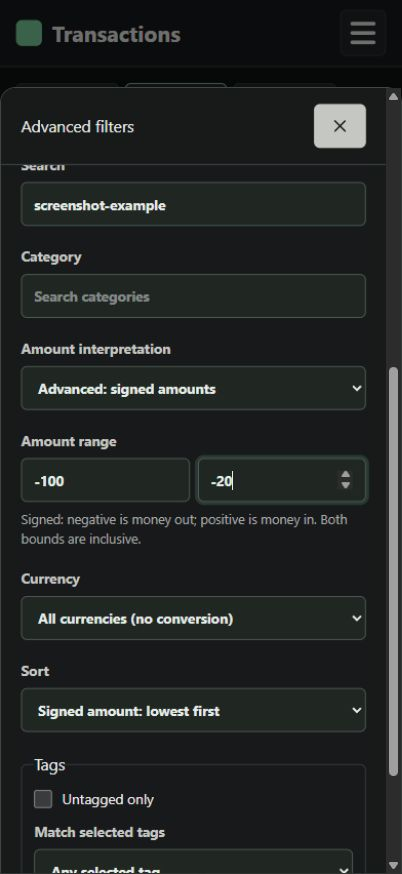
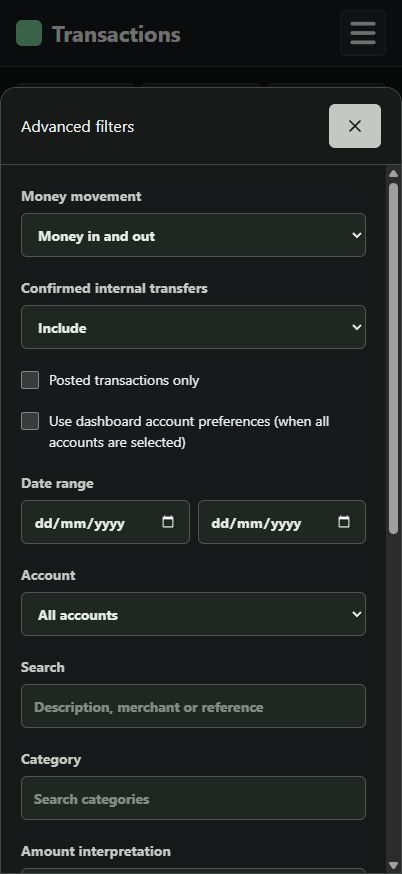
Keep mobile transaction results visible and replace review screenshots

diff --git a/src/Finyte.Web/app/transactions/TransactionQuickFilters.tsx b/src/Finyte.Web/app/transactions/TransactionQuickFilters.tsx
@@ -7,13 +7,15 @@ export function TransactionQuickFilters({ filters, onApply }: { filters: Transac
   const [error, setError] = useState('')
   const change = (values: Partial<TransactionFilters>) => { setDraft(x => ({ ...x, ...values })); setError('') }
   const noun = draft.direction === 'debit' ? 'payments' : draft.direction === 'credit' ? 'receipts' : 'amounts'
-  return <form className="panel transaction-quick-filters" onSubmit={x => {
-    x.preventDefault()
-    if (draft.minAmount && draft.maxAmount && Number(draft.minAmount) > Number(draft.maxAmount)) { setError('Minimum must be less than or equal to maximum.'); return }
-    onApply({ ...draft, search: draft.search.trim() })
-  }}>
-    <label className="filter-field quick-search"><span>Search transactions</span><input type="search" maxLength={200} placeholder="Merchant, description or reference" value={draft.search} onChange={x => change({ search: x.target.value })} /></label>
-    <label className="filter-field"><span>Money movement</span><select value={draft.direction} onChange={x => change({ direction: x.target.value })}><option value="all">Money in and out</option><option value="debit">Money out</option><option value="credit">Money in</option></select></label>
+  return <section className="panel transaction-quick-filters" aria-label="Transaction search">
+    <form className="quick-search-row" onSubmit={x => { x.preventDefault(); onApply({ ...filters, search: draft.search.trim() }) }}><label className="filter-field"><span className="visually-hidden">Search transactions</span><input type="search" maxLength={200} placeholder="Search transactions" title="Search merchant, description or reference" value={draft.search} onChange={x => change({ search: x.target.value })} /></label><button type="submit">Search</button></form>
+    <details className="quick-filter-options"><summary>Amount &amp; sort</summary><form className="quick-filter-fields" onSubmit={x => {
+      x.preventDefault()
+      if (draft.minAmount && draft.maxAmount && Number(draft.minAmount) > Number(draft.maxAmount)) { setError('Minimum must be less than or equal to maximum.'); return }
+      onApply({ ...draft, search: draft.search.trim() })
+      x.currentTarget.closest('details')?.removeAttribute('open')
+    }}>
+    <label className="filter-field"><span>Money movement</span><select value={draft.direction} onChange={x => change({ direction: x.target.value })}><option value="all">In &amp; out</option><option value="debit">Money out</option><option value="credit">Money in</option></select></label>
 
     {draft.amountMode === 'signed' ? <div className="quick-search"><p>Signed amount filters are active in Advanced.</p><button className="secondary-button" type="button" onClick={() => change({ amountMode: 'absolute', minAmount: '', maxAmount: '' })}>Use positive amounts</button></div> : <>
       <label className="filter-field"><span>Amount match</span><select value={exact ? 'exact' : 'range'} onChange={x => { setExact(x.target.value === 'exact'); change({ minAmount: '', maxAmount: '' }) }}><option value="range">Range</option><option value="exact">Exact amount</option></select></label>
@@ -22,9 +24,10 @@ export function TransactionQuickFilters({ filters, onApply }: { filters: Transac
       <small className="quick-search">Positive amounts; inclusive bounds or exact cents. {draft.direction === 'all' ? 'Both directions, including zero.' : draft.direction === 'debit' ? 'Money out only.' : 'Money in only.'} Currencies are not converted.</small>
     </>}
     <label className="filter-field quick-search"><span>Sort transactions</span><select value={draft.sort} onChange={x => change({ sort: x.target.value })}><option value="-date">Newest first</option><option value="date">Oldest first</option><option value="-magnitude">Largest {noun} first</option><option value="magnitude">Smallest {noun} first</option><option value="description">Description: A to Z</option><option value="-description">Description: Z to A</option>{['amount', '-amount'].includes(draft.sort) && <option value={draft.sort}>Signed amount: {draft.sort === 'amount' ? 'lowest' : 'highest'} first (Advanced)</option>}</select></label>
-    <div className="quick-actions"><button type="submit">Search / apply</button><button type="button" className="secondary-button" disabled={!draft.search && !filters.search} onClick={() => { change({ search: '' }); onApply({ ...filters, search: '' }) }}>Clear search</button></div>
+    <div className="quick-actions"><button type="submit">Apply filters</button></div>
     {error && <p role="alert">{error}</p>}
-  </form>
+    </form></details>
+  </section>
 }
 
 export function TransactionFilterChips({ filters, accounts, tags, onApply }: { filters: TransactionFilters; accounts: { id: string; name: string }[]; tags: { id: string; name: string }[]; onApply: (filters: TransactionFilters) => void }) {

diff --git a/src/Finyte.Web/tests/mobile-review.tsx b/src/Finyte.Web/tests/mobile-review.tsx
@@ -1,0 +1,46 @@
+// Local Vite-only visual fixture: real components, synthetic data, no API/database access.
+import { useState } from 'react'
+import { createRoot } from 'react-dom/client'
+import { TransactionQuickFilters, TransactionFilterChips } from '../app/transactions/TransactionQuickFilters'
+import { TransactionFilterForm } from '../app/transactions/TransactionFilters'
+import { TransactionCardList } from '../app/transactions/TransactionCardList'
+import { Drawer } from '../app/shared/Drawer'
+import { Menu, Tags, X } from '../app/shared/Icons'
+import { defaultTransactionFilters, type TransactionFilters } from '../app/transactions/transactionSearch'
+import type { Transaction } from '../app/transactions/types'
+import '../app/index.css'
+import '../app/App.css'
+import '../app/shared/ux.css'
+
+const accounts = [{ id: 'sample', name: 'Everyday · sample', currency: 'AUD' }]
+const samples: Transaction[] = [
+  { id: '1', description: 'Market groceries', amountMinorUnits: -10000 },
+  { id: '2', description: 'Neighbourhood café', amountMinorUnits: -4500 },
+  { id: '3', description: 'Bookshop', amountMinorUnits: -2000 },
+  { id: '4', description: 'Bookshop refund', amountMinorUnits: 2000 },
+].map(x => ({ ...x, accountId: 'sample', accountDisplayName: 'Everyday · sample', postedDate: '2026-09-22', merchantName: null, category: '', currency: 'AUD', tags: [] }))
+
+export function MobileReview() {
+  const [filters, setFilters] = useState<TransactionFilters>({ ...defaultTransactionFilters, direction: 'debit', minAmount: '20', maxAmount: '100', sort: '-magnitude' })
+  const [advanced, setAdvanced] = useState(false)
+  const transactions = samples.filter(x => {
+    const amount = (filters.amountMode === 'absolute' ? Math.abs(x.amountMinorUnits) : x.amountMinorUnits) / 100
+    return (!filters.search || x.description.toLowerCase().includes(filters.search.toLowerCase()))
+      && (filters.direction === 'all' || (filters.direction === 'debit' ? x.amountMinorUnits < 0 : x.amountMinorUnits > 0))
+      && (!filters.minAmount || amount >= Number(filters.minAmount)) && (!filters.maxAmount || amount <= Number(filters.maxAmount))
+  }).sort((x, y) => filters.sort === '-magnitude' ? Math.abs(y.amountMinorUnits) - Math.abs(x.amountMinorUnits) : filters.sort === 'magnitude' ? Math.abs(x.amountMinorUnits) - Math.abs(y.amountMinorUnits) : 0)
+  return <div className="app-shell">
+    <header className="mobile-header"><div className="brand"><span className="logo-placeholder" /><h1>Transactions</h1></div><button className="mobile-menu-button" aria-label="Sample navigation"><Menu className="mobile-menu-icon" size={24} /></button></header>
+    <main><section className="page transactions-page">
+      <header className="page-header transactions-header"><div><h1>Transactions</h1></div><div className="transactions-actions"><button className="secondary-button" type="button"><Tags />Tags</button><button className="secondary-button" onClick={() => setAdvanced(true)}>Advanced</button><button className="secondary-button" aria-label="Reset all filters" onClick={() => setFilters(defaultTransactionFilters)}><X />Reset</button></div></header>
+      <small>Sample data · mobile review</small>
+      <TransactionQuickFilters key={JSON.stringify(filters)} filters={filters} onApply={setFilters} />
+      <TransactionFilterChips filters={filters} accounts={accounts} tags={[]} onApply={setFilters} />
+      <TransactionCardList transactions={transactions} emptyMessage="No transactions match the current filters." isLoading={false} renderTags={() => <span>Sample transaction</span>} />
+      <p>{transactions.length} transactions</p>
+      {advanced && <Drawer title="Advanced filters" onClose={() => setAdvanced(false)}><TransactionFilterForm filters={filters} accounts={accounts} tags={[]} onApply={x => { setFilters(x); setAdvanced(false) }} /></Drawer>}
+    </section></main>
+  </div>
+}
+
+createRoot(document.getElementById('root')!).render(<MobileReview />)

diff --git a/src/Finyte.Web/app/App.css b/src/Finyte.Web/app/App.css
@@ -2346,14 +2346,21 @@ td {
 .daily-bar-stack a, .weekly-bar-stack a { display: block; width: 100%; }
 .bucket-links { display: flex; gap: 1rem; }
 
-.transaction-quick-filters { display: grid; grid-template-columns: repeat(2, minmax(0, 1fr)); gap: 14px; padding: 16px; }
-.transaction-quick-filters .quick-search, .quick-actions { grid-column: 1 / -1; }
+
+.transaction-quick-filters { display: grid; grid-template-columns: minmax(0, 1fr); gap: 10px; padding: 12px; width: 100%; }
+.quick-search-row { display: grid; grid-template-columns: minmax(0, 1fr) auto; gap: 8px; align-items: center; }
+.quick-filter-options { min-width: 0; }
+.quick-filter-options summary { display: flex; align-items: center; gap: 8px; cursor: pointer; font-size: 14px; color: #c5c7c2; }
+.quick-filter-options summary::before { content: '+'; font-size: 20px; }
+.quick-filter-options[open] summary::before { content: '−'; }
+.quick-filter-fields { display: grid; grid-template-columns: repeat(2, minmax(0, 1fr)); gap: 12px; padding-top: 8px; }
+.transaction-quick-filters .quick-search, .quick-actions, .quick-filter-fields [role=alert] { grid-column: 1 / -1; }
 .transaction-quick-filters .filter-field { min-width: 0; }
 .transaction-quick-filters small { color: #a7aaa8; line-height: 1.5; }
 .quick-actions, .transaction-filter-chips { display: flex; flex-wrap: wrap; gap: 8px; }
 .transaction-filter-chips:empty { display: none; }
-.transaction-filter-chips button { font-size: 13px; padding: 8px 10px; min-height: 36px; white-space: normal; text-align: left; overflow-wrap: anywhere; max-width: 100%; }
-@media (max-width: 480px) {
-  .transaction-quick-filters { padding: 12px; gap: 12px; }
-  .quick-actions button { flex: 1 1 auto; }
-}
+.transaction-filter-chips button { font-size: 13px; padding: 8px 10px; min-height: 44px; white-space: normal; text-align: left; overflow-wrap: anywhere; max-width: 100%; }
+.app-drawer:has(.transaction-filters-panel) { overflow: hidden; }
+.app-drawer[open]:has(.transaction-filters-panel) { display: flex; flex-direction: column; }
+.app-drawer:has(.transaction-filters-panel) > header { flex: 0 0 auto; position: relative; }
+.app-drawer:has(.transaction-filters-panel) > .drawer-content { overflow-y: auto; min-height: 0; }

diff --git a/src/Finyte.Web/tests/mobile-review.html b/src/Finyte.Web/tests/mobile-review.html
@@ -1,0 +1,2 @@
+<!doctype html>
+<html lang="en"><head><meta charset="UTF-8" /><meta name="viewport" content="width=device-width, initial-scale=1.0" /><title>Transaction filters — sample data</title></head><body><div id="root"></div><script type="module" src="./mobile-review.tsx"></script></body></html>

diff --git a/docs/issue-27/README.md b/docs/issue-27/README.md
@@ -6,8 +6,15 @@ Validated against main at 210d846. Browser checks used a 402 × 874 CSS-pixel po
 - 5 URL serialization/compatibility tests passed: `node --experimental-strip-types --test src/Finyte.Web/tests/transactionSearch.test.mjs`.
 - Frontend build and lint passed; build reports the existing large-bundle warning.
 - Mobile browser checks: visible merchant search, clear search, positive money-out range, largest-first sorting, exact amounts, money-in and mixed directions, range validation, pagination, chip removal, Back navigation, and Advanced apply/cancel with signed amounts.
-- Existing imported data was used for read-only checks. Screenshots deliberately use a no-result search to avoid publishing personal transactions.
+- Existing imported data was used for read-only application checks. Compact controls measured 132 CSS pixels tall; the first matching result was visible at y=406 in the 874-pixel viewport.
+- Follow-up mobile checks: search does not apply hidden draft amount changes, invalid ranges remain editable, applying filters collapses the editor, exact mixed-direction matches return both +30 and -30, and Advanced cancellation preserves applied filters.
+- Screenshots use the real filter, drawer and transaction-card components with clearly labelled synthetic transactions. Open /tests/mobile-review.html on the Vite development server to reproduce them; the fixture makes no API calls or database changes and is not a production entry point.
+- Saved PNGs were reopened and visually inspected. These illustrate layout; filtering correctness was verified separately against the running application and API tests.
 
-| Positive range | Exact amount | Advanced signed controls |
-| --- | --- | --- |
-| ![Positive range](mobile-range.png) | ![Exact amount](mobile-exact.png) | ![Advanced controls](mobile-advanced.png) |
+| Applied range and results | Applied exact amount and results |
+| --- | --- |
+| ![Positive range](mobile-range.png) | ![Exact amount](mobile-exact.png) |
+
+| Expanded everyday controls | Advanced filters |
+| --- | --- |
+| ![Amount controls](mobile-controls.png) | ![Advanced controls](mobile-advanced.png) |
